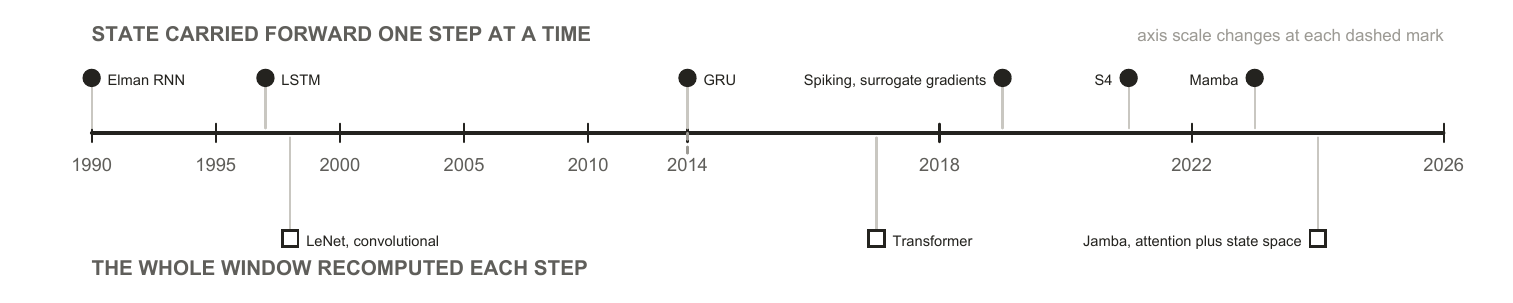
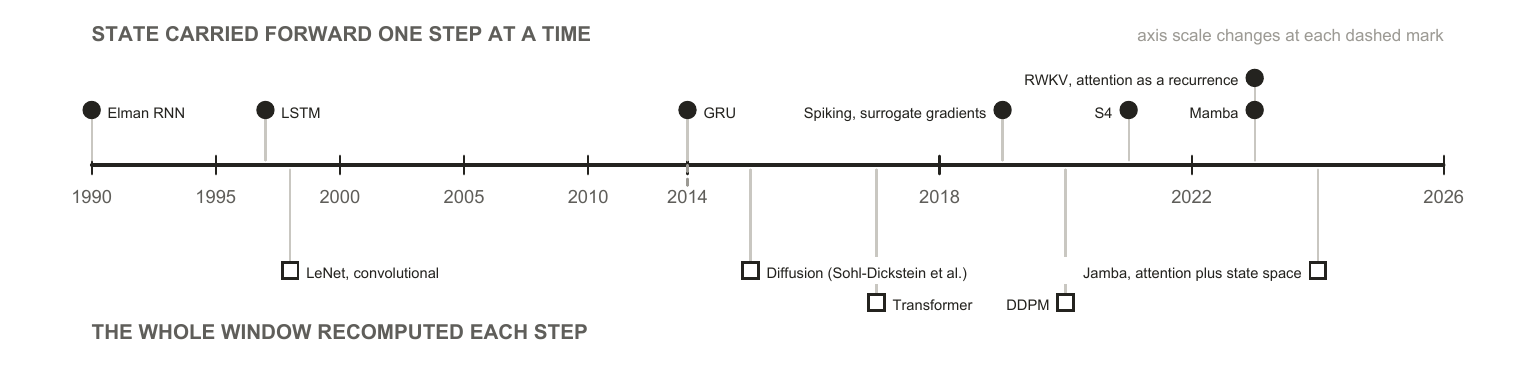
add diffusion and RWKV to the conventional-architecture timeline

diff --git a/papers/01-evidence-audit/resources/figures/make_figures.py b/papers/01-evidence-audit/resources/figures/make_figures.py
@@ -905,9 +905,11 @@ def fig_ann_timeline():
     stateful = [
         (1990, "Elman RNN"), (1997, "LSTM"), (2014, "GRU"),
         (2019, "Spiking, surrogate gradients"), (2021, "S4"), (2023, "Mamba"),
+        (2023, "RWKV, attention as a recurrence"),
     ]
     windowed = [
-        (1998, "LeNet, convolutional"), (2017, "Transformer"),
+        (1998, "LeNet, convolutional"), (2015, "Diffusion (Sohl-Dickstein et al.)"),
+        (2017, "Transformer"), (2020, "DDPM"),
         (2024, "Jamba, attention plus state space"),
     ]
     reference_timeline(

diff --git a/papers/01-evidence-audit/from-synchronization-physics-to-trained-dynamics.md b/papers/01-evidence-audit/from-synchronization-physics-to-trained-dynamics.md
@@ -88,11 +88,13 @@ Oscillator networks are not the only option, and several of the systems in Secti
 
 **Attention recomputes over the whole window.** The Transformer ([Vaswani et al. 2017](https://arxiv.org/abs/1706.03762)) drops recurrence entirely and lets every position attend to every other, which removes the sequential dependency that made recurrences slow to train. The cost is that it keeps no compressed state: attention is quadratic in sequence length, and at inference the keys and values of every previous token must be held in memory, a footprint that grows linearly with context and dominates serving cost at scale ([Kwon et al. 2023](https://arxiv.org/abs/2309.06180)). A fixed-size oscillator field is the opposite trade, which is the substance of the efficiency argument made for it.
 
-**State-space models put a linear dynamical system back in.** S4 ([Gu, Goel & Ré 2021](https://arxiv.org/abs/2111.00396)) recovers a constant-size recurrent state while keeping parallel training, and finds its spectrum's initialization to be load-bearing rather than incidental ([Gu et al. 2023a](https://arxiv.org/abs/2206.12037)); Mamba ([Gu & Dao 2023b](https://arxiv.org/abs/2312.00752)) makes the state transition input-dependent and reaches Transformer-quality language modelling. This is the family the oscillatory recurrences are closest to: LinOSS *is* a state-space model whose transition is a bank of harmonic oscillators, which is why it is also the oscillator system with the longest gradient horizon in the survey, roughly fifty thousand steps; UnICORNN's 17,984 is the longest for a nonlinear one. Hybrids interleave the two, keeping a few attention layers for recall over a mostly recurrent stack ([Lieber et al. 2024](https://arxiv.org/abs/2403.19887)).
+**Diffusion models iterate over noise rather than over time.** A diffusion model ([Sohl-Dickstein et al. 2015](https://arxiv.org/abs/1503.03585); [Ho, Jain & Abbeel 2020](https://arxiv.org/abs/2006.11239)) carries nothing between inputs; it generates by running a learned denoiser, itself a convolutional or attention network, for a fixed number of steps down a noise schedule, so the computation is a dynamical system over noise level rather than over the time axis of a signal. That makes it the conventional family closest in shape to a trained oscillator field settling from a random initial condition, which is why Un-0 is scored against diffusion baselines and why Kuramoto Orientation Diffusion could replace the Gaussian forward process with stochastic Kuramoto dynamics outright.
+
+**State-space models put a linear dynamical system back in.** S4 ([Gu, Goel & Ré 2021](https://arxiv.org/abs/2111.00396)) recovers a constant-size recurrent state while keeping parallel training, and finds its spectrum's initialization to be load-bearing rather than incidental ([Gu et al. 2023a](https://arxiv.org/abs/2206.12037)); Mamba ([Gu & Dao 2023b](https://arxiv.org/abs/2312.00752)) makes the state transition input-dependent and reaches Transformer-quality language modelling. RWKV ([Peng et al. 2023](https://arxiv.org/abs/2305.13048)) arrives at the same shape from the attention side, rewriting attention as a linear recurrence so that a Transformer-style model trains in parallel and runs with a constant-size state, which makes it the mainstream counterpart of the attention-as-dynamics reading that Kuramoto Attention and FSN give. This is the family the oscillatory recurrences are closest to: LinOSS *is* a state-space model whose transition is a bank of harmonic oscillators, which is why it is also the oscillator system with the longest gradient horizon in the survey, roughly fifty thousand steps; UnICORNN's 17,984 is the longest for a nonlinear one. Hybrids interleave the two, keeping a few attention layers for recall over a mostly recurrent stack ([Lieber et al. 2024](https://arxiv.org/abs/2403.19887)).
 
 **Spiking networks are the nearest neighbour.** A spiking unit is an oscillator of a restricted kind: it integrates input, crosses a threshold, emits a discrete event, and resets. That discreteness is what makes it efficient on neuromorphic hardware and what makes it hard to train, since the threshold is non-differentiable, so gradient methods need a surrogate and the choice of surrogate is itself a modelling decision ([Neftci, Mostafa & Zenke 2019](https://doi.org/10.1109/MSP.2019.2931595)). Oscillator models keep the state continuous, so coupling is differentiable and no surrogate is needed, and they carry structure a threshold unit discards: a natural frequency, a phase relationship to every other unit, and a graded rather than binary response to input. Recent work narrows the gap from the other side, training networks of Morris–Lecar neurons directly with backpropagation ([Akbari, Mason, Gruber & Nicola 2025](https://doi.org/10.1101/2025.11.23.690009), preprint). **Whether continuous state makes oscillator networks easier to train is open, and this survey's own evidence cautions against assuming it.** No published work compares a spiking network and an oscillator network on one task under matched conditions, and every nonlinear oscillator system in the record that lacks a proven gradient bound works at a short gradient horizon (Section 2.3).
 
-![Conventional neural network architectures, by how each one holds the past. Above the axis, a state is carried forward one step at a time; below it, the whole window is recomputed at every step. An oscillator field belongs to the upper track, but its state evolves under a fixed differential equation rather than under a transition learned from scratch, which is the substance of both the efficiency argument made for it and the training difficulty reported against it.](resources/figures/fig8-ann-timeline.png)
+![Conventional neural network architectures, by how each one holds the past. Above the axis, a state is carried forward one step at a time; below it, the whole window is recomputed at every step. Diffusion sits below the axis as well: it keeps nothing between inputs and iterates a denoiser over noise levels rather than over time, the iteration Kuramoto Orientation Diffusion makes oscillatory. An oscillator field belongs to the upper track, but its state evolves under a fixed differential equation rather than under a transition learned from scratch, which is the substance of both the efficiency argument made for it and the training difficulty reported against it.](resources/figures/fig8-ann-timeline.png)
 
 ### 1.4 Motivation for this survey: independent convergence across fields
 
